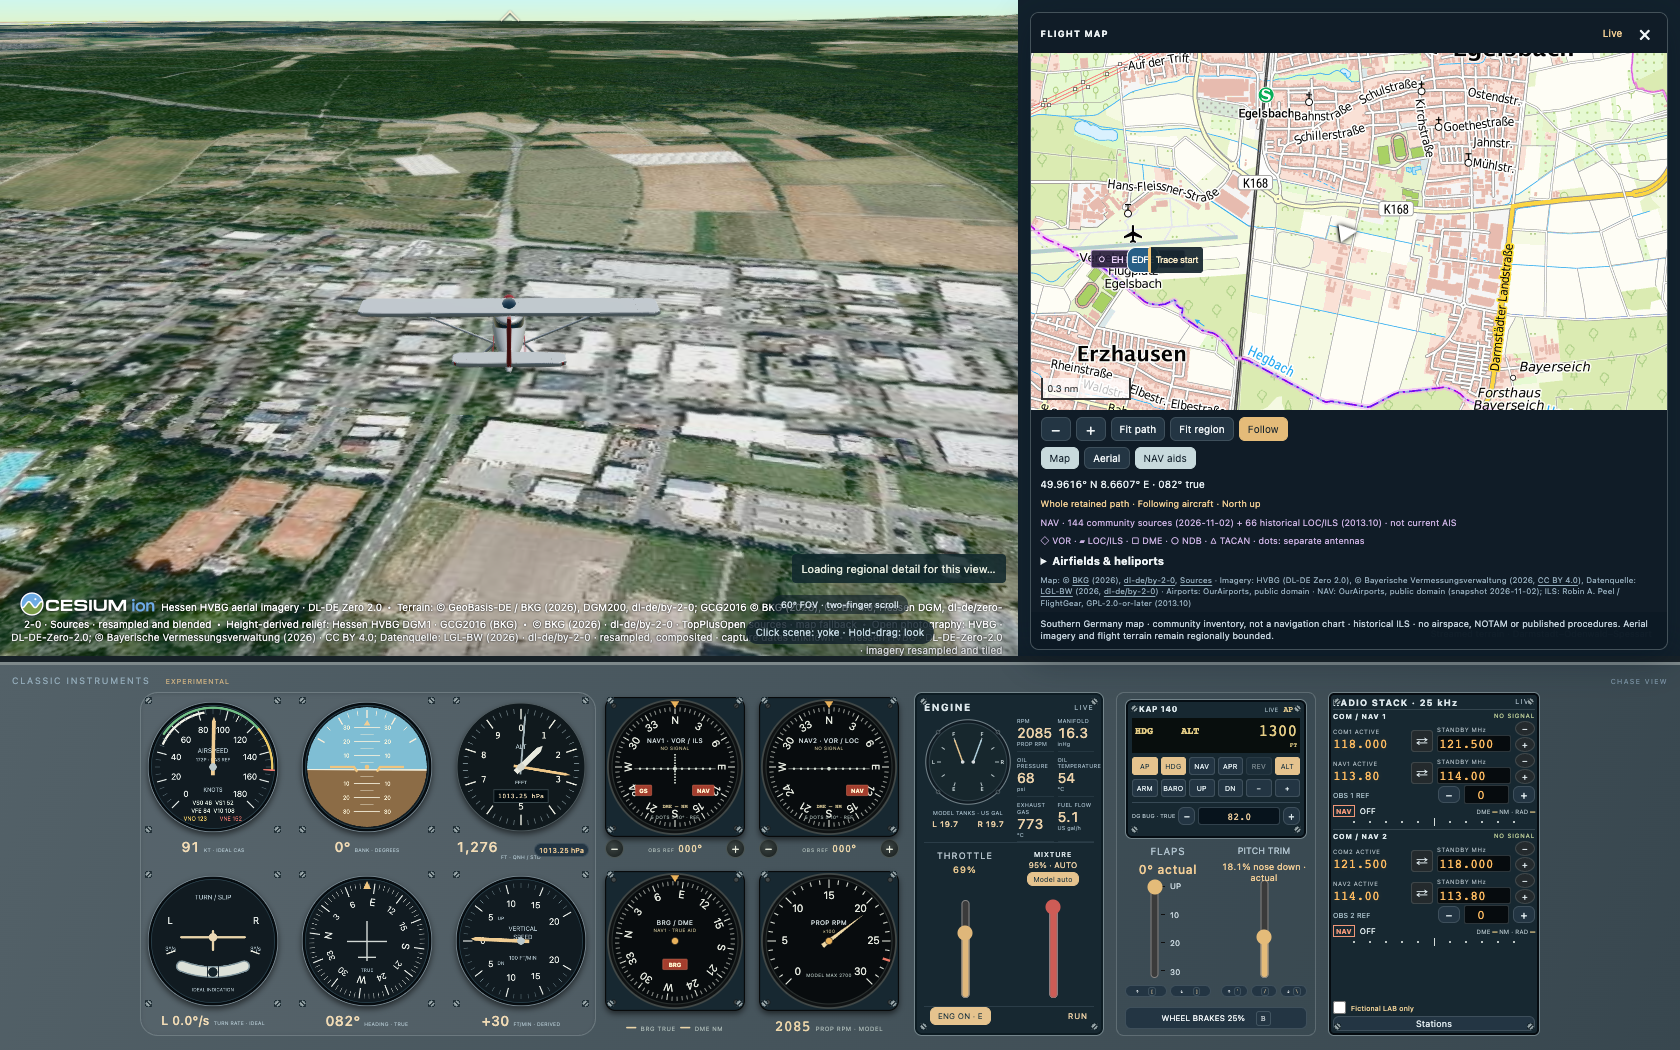
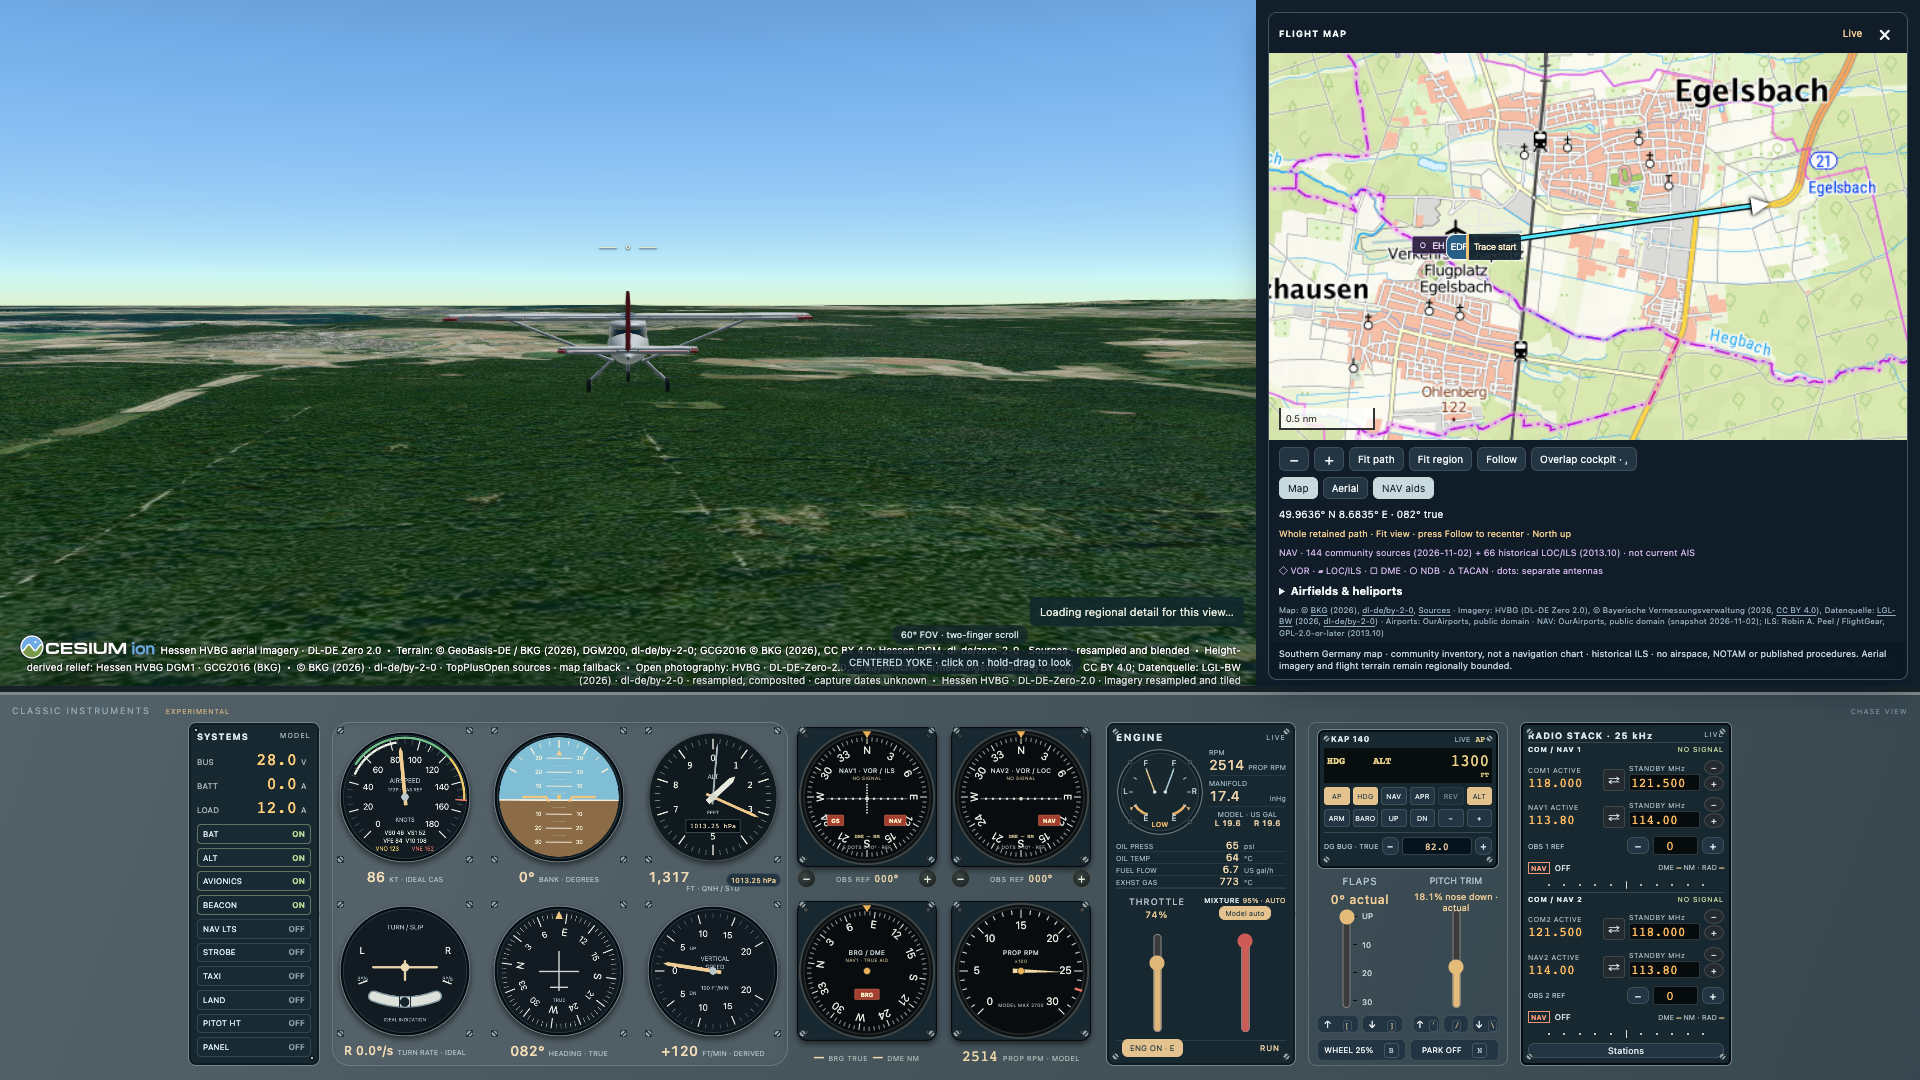
Constrain cockpit zoom and refresh the README flight view
Refs: R-PANEL-1, R-VIEW-1, R-WORLD-6, TODO 2.0.61

diff --git a/app/src/cockpit-layout.ts b/app/src/cockpit-layout.ts
@@ -8,13 +8,24 @@ export function createCockpitLayout(container: HTMLElement): { dispose(): void }
   let disposed = false;
   let zoom = 1;
   let panX = 0;
-  let panY = 0;
+  let fitted = 1, naturalHeight = 0, naturalWidth = 0, headingHeight = 0, verticalPadding = 0;
+  let maxZoom = 3;
 
   function paintZoom(): void {
     if (!deck || !instruments) return;
-    const fitted = Number(container.dataset.cockpitScale) || 1;
+    // Keep both instrument rows inside the growing deck; retain scenery above it.
+    const height = Math.ceil(naturalHeight * fitted * zoom + headingHeight + verticalPadding);
+    container.style.setProperty('--deck-height', `${height}px`);
+    const rect = deck.getBoundingClientRect();
+    const padding = getComputedStyle(deck);
+    const left = rect.left + parseFloat(padding.paddingLeft);
+    const right = rect.right - parseFloat(padding.paddingRight);
+    const width = naturalWidth * fitted;
+    const baseLeft = rect.left + (rect.width - width) / 2;
+    panX = width * zoom <= right - left ? 0
+      : Math.max(right - baseLeft - width * zoom, Math.min(left - baseLeft, panX));
     instruments.style.transformOrigin = '0 0';
-    instruments.style.transform = `translate(${panX / fitted}px, ${panY / fitted}px) scale(${zoom})`;
+    instruments.style.transform = `translateX(${panX / fitted}px) scale(${zoom})`;
     deck.dataset.zoomed = String(zoom > 1);
     deck.dataset.panelZoom = String(zoom);
   }
@@ -22,20 +33,21 @@ export function createCockpitLayout(container: HTMLElement): { dispose(): void }
   function wheel(event: WheelEvent): void {
     if (!deck || !instruments || event.defaultPrevented || event.ctrlKey || event.metaKey || event.altKey
       || container.ownerDocument.querySelector('dialog[open]')
-      || !Number.isFinite(event.deltaY) || !Number.isFinite(event.deltaX)
-      || Math.abs(event.deltaY) <= Math.abs(event.deltaX)) return;
+      || !Number.isFinite(event.deltaY) || !Number.isFinite(event.deltaX)) return;
+    const horizontal = Math.abs(event.deltaX) > Math.abs(event.deltaY);
+    if (horizontal ? zoom === 1 : event.deltaY === 0) return;
     const unit = event.deltaMode === 0 ? 1 : event.deltaMode === 1 ? 16
       : event.deltaMode === 2 ? deck.clientHeight : 0;
     if (!unit) return;
     event.preventDefault();
     event.stopPropagation();
-    const next = Math.max(1, Math.min(3, zoom * Math.exp(-Math.max(-200, Math.min(200, event.deltaY * unit)) * .002)));
+    if (horizontal) { panX -= event.deltaX * unit; paintZoom(); return; }
+    const next = Math.max(1, Math.min(maxZoom, zoom * Math.exp(-Math.max(-200, Math.min(200, event.deltaY * unit)) * .002)));
     const rect = instruments.getBoundingClientRect();
     // Keep the instrument point under the pointer fixed in screen coordinates.
     panX += (event.clientX - rect.left) * (1 - next / zoom);
-    panY += (event.clientY - rect.top) * (1 - next / zoom);
     zoom = next;
-    if (zoom === 1) { panX = 0; panY = 0; }
+    if (zoom === 1) panX = 0;
     paintZoom();
   }
 
@@ -44,12 +56,12 @@ export function createCockpitLayout(container: HTMLElement): { dispose(): void }
     if (disposed || !deck || !instruments) return;
     const style = getComputedStyle(deck);
     const horizontalPadding = parseFloat(style.paddingLeft) + parseFloat(style.paddingRight);
-    const verticalPadding = parseFloat(style.paddingTop) + parseFloat(style.paddingBottom)
+    verticalPadding = parseFloat(style.paddingTop) + parseFloat(style.paddingBottom)
       + parseFloat(style.borderTopWidth) + parseFloat(style.borderBottomWidth);
-    const headingHeight = deck.querySelector<HTMLElement>('.deck-heading')?.offsetHeight ?? 0;
+    headingHeight = deck.querySelector<HTMLElement>('.deck-heading')?.offsetHeight ?? 0;
     // offset sizes describe the canonical, unzoomed controls. No physics or camera state is changed.
-    const naturalHeight = instruments.offsetHeight;
-    const naturalWidth = instruments.offsetWidth;
+    naturalHeight = instruments.offsetHeight;
+    naturalWidth = instruments.offsetWidth;
     if (naturalHeight <= 0 || naturalWidth <= 0) return;
     let sceneReserve = 180;
     if (container.dataset.review === 'true') {
@@ -62,16 +74,14 @@ export function createCockpitLayout(container: HTMLElement): { dispose(): void }
     const scale = Math.min(1,
       Math.max(1, deck.clientWidth - horizontalPadding) / naturalWidth,
       Math.max(1, container.clientHeight - sceneReserve - headingHeight - verticalPadding) / naturalHeight);
-    const height = Math.ceil(naturalHeight * scale + headingHeight + verticalPadding);
+    fitted = scale;
+    maxZoom = Math.max(1, Math.min(3, (container.clientHeight - sceneReserve - headingHeight - verticalPadding) / (naturalHeight * scale)));
     if (container.style.getPropertyValue('--cockpit-scale') !== String(scale)) {
       container.style.setProperty('--cockpit-scale', String(scale));
     }
-    if (container.style.getPropertyValue('--deck-height') !== `${height}px`) {
-      container.style.setProperty('--deck-height', `${height}px`);
-    }
     container.dataset.cockpitScale = String(scale);
     // A viewport/layout change restores the full, fitted panel.
-    zoom = 1; panX = 0; panY = 0;
+    zoom = 1; panX = 0;
     paintZoom();
   }
   function schedule(): void {

diff --git a/app/src/practice-map.ts b/app/src/practice-map.ts
@@ -135,6 +135,20 @@ export async function createPracticeMap(options: MapOptions): Promise<PracticeMa
   let aircraft: Marker | undefined;
   let start: Marker | undefined;
   let frame: PracticeMapFrame | undefined;
+  // Project the bounded trace directly so it remains visible while worker tiles load.
+  const trajectory = document.createElementNS('http://www.w3.org/2000/svg', 'svg');
+  trajectory.classList.add('practice-map-trajectory');
+  trajectory.setAttribute('aria-hidden', 'true');
+  const track = document.createElementNS('http://www.w3.org/2000/svg', 'polyline');
+  trajectory.append(track);
+  function paintTrajectory(): void {
+    const points = ready && map && frame && frame.path.length > 1
+      ? frame.path.map(coordinate => { const p = map!.project(coordinate); return `${p.x.toFixed(2)},${p.y.toFixed(2)}`; }).join(' ')
+      : '';
+    if (track.getAttribute('points') !== points) track.setAttribute('points', points);
+  }
+
+  let paintedPath = '';
   let visible = !container.hidden;
   let ready = false;
   let disposed = false;
@@ -294,11 +308,16 @@ export async function createPracticeMap(options: MapOptions): Promise<PracticeMa
 
   function paint(): void {
     if (!visible || !ready || !map || !frame || disposed) return;
-    (map.getSource('recorded-path') as GeoJSONSource).setData({
-      type: 'FeatureCollection', features: frame.path.length < 2 ? [] : [{
-        type: 'Feature', properties: {}, geometry: { type: 'LineString', coordinates: frame.path },
-      }],
-    });
+    paintTrajectory();
+    const pathKey = JSON.stringify(frame.path);
+    if (pathKey !== paintedPath) {
+      (map.getSource('recorded-path') as GeoJSONSource).setData({
+        type: 'FeatureCollection', features: frame.path.length < 2 ? [] : [{
+          type: 'Feature', properties: {}, geometry: { type: 'LineString', coordinates: frame.path },
+        }],
+      });
+      paintedPath = pathKey;
+    }
     aircraft!.setLngLat(frame.position).setRotation(frame.heading_deg).addTo(map);
     if (frame.path.length) start!.setLngLat(frame.path[0]).addTo(map);
     else start!.remove();
@@ -339,7 +358,7 @@ export async function createPracticeMap(options: MapOptions): Promise<PracticeMa
         frame = makePracticeMapFrame(state, path);
       } catch {
         // Invalid flight state: never keep a stale marker, path or readout on screen.
-        frame = undefined;
+        frame = undefined; paintedPath = ''; paintTrajectory();
         aircraft?.remove(); start?.remove();
         if (ready && map) (map.getSource('recorded-path') as GeoJSONSource | undefined)?.setData({ type: 'FeatureCollection', features: [] });
         readout.textContent = 'Aircraft position unavailable';
@@ -417,6 +436,8 @@ export async function createPracticeMap(options: MapOptions): Promise<PracticeMa
       renderWorldCopies: false, maxPitch: 0, pixelRatio: Math.min(window.devicePixelRatio || 1, 2),
     });
     map.addControl(new ScaleControl({ unit: 'nautical', maxWidth: 100 }), 'bottom-left');
+    viewport.append(trajectory);
+    map.on('move', paintTrajectory); map.on('resize', paintTrajectory);
     map.dragRotate.disable();
     map.touchZoomRotate.disableRotation();
     map.on('moveend', () => { paintAirports(); paintNavigation(); });

diff --git a/app/src/practice-map.css b/app/src/practice-map.css
@@ -97,3 +97,7 @@
   .practice-map-layers button { padding: 4px 6px; font-size: 9px; }
   .practice-map-navigation-status, .practice-map-navigation-detail, .practice-map-navigation-key { margin-left: 8px; margin-right: 8px; }
 }
+
+.practice-map-trajectory { position: absolute; inset: 0; width: 100%; height: 100%; overflow: hidden; pointer-events: none; z-index: 1; }
+.practice-map-trajectory polyline { fill: none; stroke: #54e8fa; stroke-width: 3; stroke-linejoin: round; stroke-linecap: round; filter: drop-shadow(0 1px 1px #10212c); }
+.practice-map-aircraft, .practice-map-start, .practice-map-airport-marker, .practice-map-navigation-marker { z-index: 2; }

diff --git a/docs/SPEC.md b/docs/SPEC.md
@@ -117,7 +117,7 @@ navigation and integrity checking, separate from aircraft and learning validatio
 
 | Requirement | Status | Acceptance evidence |
 | --- | --- | --- |
-| Keep the classic panel compact, aligned and usable across viewports. [R-PANEL-1] | First instrument layout | Six-pack retains a separate rounded housing. NAV1/NAV2 share the top secondary row, with a true-reference teaching bearing/DME display and actual RPM below. A distinct dual left/right model-tank fuel gauge accompanies engine controls. Oil pressure, oil temperature, fuel flow and exhaust gas temperature each use a compact single-line label/value/unit row. Both fuel scales mark the lower quarter of model capacity, with independent non-color LOW indicators at or below that reference; unavailable data does not invent a low-fuel state, and Review follows selected recorded quantities. These are generic display references, not installed annunciator thresholds or usable-fuel reserves. Two-finger vertical scrolling over the panel magnifies it around the pointer from its fitted scale up to 3×; zoom-out or viewport resizing restores the fit. Enlarged controls remain operable, without changing camera FOV or flight state. Desktop columns run primary instruments, engine, autopilot/flaps/trim, radio, sharing top/bottom alignment and one scale. Instrument faces align by row without clipping labels or controls. Desktop height is reduced from the previous 449px at 1440×900; engine/radio collapse before primary controls on narrow views, and NAV displays remain reachable through View. Vertical throttle/mixture and equal-travel flap/trim controls, paused settings and selected recorded state remain usable. Fictional LAB bearing and model fuel/RPM references are explicit, without claiming real NDB/RMI equipment, usable-fuel reserves or aircraft-specific limits. |
+| Keep the classic panel compact, aligned and usable across viewports. [R-PANEL-1] | First instrument layout | Six-pack retains a separate rounded housing. NAV1/NAV2 share the top secondary row, with a true-reference teaching bearing/DME display and actual RPM below. A distinct dual left/right model-tank fuel gauge accompanies engine controls. Oil pressure, oil temperature, fuel flow and exhaust gas temperature each use a compact single-line label/value/unit row. Both fuel scales mark the lower quarter of model capacity, with independent non-color LOW indicators at or below that reference; unavailable data does not invent a low-fuel state, and Review follows selected recorded quantities. These are generic display references, not installed annunciator thresholds or usable-fuel reserves. Two-finger vertical scrolling over the panel magnifies it from its fitted scale up to 3×, limited by available screen height. The deck grows upward to keep both gauge rows vertically visible while preserving scenery above. Horizontal scrolling pans between enlarged columns, constrained to the panel edges; zoom-out or viewport resizing restores the fit. Enlarged controls remain operable, without changing camera FOV or flight state. Desktop columns run primary instruments, engine, autopilot/flaps/trim, radio, sharing top/bottom alignment and one scale. Instrument faces align by row without clipping labels or controls. Desktop height is reduced from the previous 449px at 1440×900; engine/radio collapse before primary controls on narrow views, and NAV displays remain reachable through View. Vertical throttle/mixture and equal-travel flap/trim controls, paused settings and selected recorded state remain usable. Fictional LAB bearing and model fuel/RPM references are explicit, without claiming real NDB/RMI equipment, usable-fuel reserves or aircraft-specific limits. |
 | Add a compact left-hand aircraft systems panel. [R-SYS-1] | First C172-style systems increment | Digital bus voltage, battery current and total load accompany BAT, ALT, avionics, beacon, navigation, strobe, taxi, landing, pitot heat and panel-light buttons. MODEL labeling/tooltips disclose ideal supply voltage and generic current estimates, separate from native electrical telemetry. ALT selection requires BAT; BAT off removes ALT selection and modeled circuit power while preserving other selected switches. Negative battery amps indicate discharge. Paused interaction must not advance native physics. Replay shows selected recorded switches read-only; absent fields show unavailable and exit restores live settings. Keep canonical panel height and common scale; on narrow screens preserve primary instruments and provide View/Alt+Shift+Y dialog access. No battery depletion, recharge transient, installed-aircraft currents, low-RPM generation, external lighting, avionics outages, starter interlocks or icing effects are claimed. Source scope/estimates are recorded in [the systems note](research/2026-11-03-aircraft-systems-panel.md). |
 
 ## Engine operation

diff --git a/docs/images/README.md b/docs/images/README.md
@@ -24,18 +24,24 @@ their displayed source/license credits. See the complete
 aircraft visual, cockpit and application code are project-authored; third-party
 data rights remain separate from the GPL project license.
 
-## Right-side flight map capture
+## Current README capture
 
-`gefly-flight-map.png`, now used in README, was captured on 2026-11-03 from the
-same actual application and Chrome/viewport, at simulation time 27.63 s / step
-3316, with Chase view, HDG/ALT, classic panels and the activated right-side map.
-The BKG map, aircraft/path and source-dated NAV controls are visible. No imagery
-fixtures, source rewrite, generated pixels or image editing were used. The first
-capture exposed a startup dependency on raster loading; the accepted capture
-follows the style-ready repair and was visually inspected.
+`gefly-flight-map.png` was refreshed on 2026-11-03 using the actual application
+in Chrome 156.0.8078.80 at 1920×1080. It shows the latest left systems panel,
+six-pack/NAV instruments, engine, KAP 140/flap/trim and radio columns, a visible
+horizon in chase view, and the public map centered around Egelsbach (EDFE).
+The cyan trajectory contains 447 sampled points from the real JSBSim
+flight; no route or aircraft states were fabricated. At capture the flight was
+running at 1×, time 61.68 s / step 7402, with HDG/ALT engaged.
 
-Actual public BKG map and bundled/live imagery requests retain their on-screen
-source credits. The screenshot is one observed view, not complete service or
-photography coverage. Disposable worker/network evidence is in
-`output/flight/flight-map-screenshot.json`; all third-party rights above still
-apply, including BKG map DL-DE-BY-2.0 and its linked source inventory.
+Reproduce manually with `node app/tests/capture-readme.mjs` after building the
+local native runtime. It uses normal UI controls and public services, with no
+imagery fixtures, source rewriting, generated backdrop or image editing.
+The flight is briefly paused while public tiles settle, then resumed before
+capture. The screenshot retains source credits and any live detail-loading
+notice; it is not proof of complete upstream imagery availability or fidelity.
+Disposable state/network evidence is in `output/flight/readme-latest-panel.json`.
+
+The BKG public map uses DL-DE-BY-2.0. The photography, terrain and geoid source
+rights described above and in the third-party inventory still apply. Aircraft
+visuals and cockpit code are project-authored; data rights remain separate.

diff --git a/README.md b/README.md
@@ -26,9 +26,10 @@ support commercial maps and charts, hosting and AI features.
 
 See the [vision and roadmap](docs/ROAD.md) for the full direction.
 
-![Gefly flying near Egelsbach with classic cockpit panels, real terrain imagery and the right-side flight map](docs/images/gefly-flight-map.png)
+![Gefly flying near Egelsbach with the latest cockpit panels, a visible horizon and a recorded flight path on the Egelsbach map](docs/images/gefly-flight-map.png)
 
-Live prototype flight in chase view, with cockpit instruments and controls.
+Live prototype flight near Egelsbach: the latest cockpit panels, horizon and
+actual flown trajectory on the right-side map.
 [Screenshot provenance and credits](docs/images/README.md).
 
 Today, Gefly is an experimental browser prototype with JSBSim flight dynamics,
@@ -73,8 +74,9 @@ and the achieved rate depends on available CPU/rendering capacity.
 Restart is in Flight. Click toggles touchpad yoke control;
 hold-drag looks around while retaining the yoke midpoint, and two-finger vertical
 scroll over the scenery changes field of view. Over the cockpit panel, scroll up
-to enlarge the instruments around the pointer (up to 3×); scroll down to restore
-the fitted panel. Resizing the window also restores the fit.
+to enlarge the instruments (up to 3×, limited by screen height). The panel grows
+upward so both gauge rows stay visible; horizontal scrolling moves between columns
+and stops at the panel edges. Scroll down or resize the window to restore the fit.
 Public terrain now streams across **8.25–10.00°E / 49.25–50.75°N**, including
 Darmstadt, Odenwald and Spessart, with named Flight-menu demonstrations. The
 bounded 200 m BKG relief surrounds the finer Egelsbach–Frankfurt–Taunus package;

diff --git a/docs/DONE.md b/docs/DONE.md
@@ -3,6 +3,33 @@
 Times use Europe/Berlin; timestamps come from the execution clock. New entries go
 above previous entries. This log records implementation, not simulator validity.
 
+## 2026-11-03 12:45 — Bounded panel zoom and refreshed flight image
+
+TODO: 2.0.61; R-PANEL-1/R-VIEW-1. Agent: Codex, direct implementation.
+
+**Implementation notes**
+
+Grow the deck upward during zoom so both instrument rows stay vertically inside
+it, cap magnification by viewport height and preserve scenery space above. Bound
+horizontal two-finger panning to the instrument edges and restore the fitted
+layout on zoom-out/resize. Build and actual Chrome maximum zoom, repeated pan,
+AP interaction, fit restoration, camera isolation and paused native-state checks
+pass. Keep a directly projected SVG trace visible independently of map-worker
+updates, and avoid rebuilding unchanged path data. Map interaction, projection
+and selected-recording/native-isolation checks also pass. Capture the actual browser flight for the README; image-specific evidence
+and credits are in docs/images/README.md.
+
+**Deviations**
+
+Enlarged columns can require horizontal scrolling. Public imagery coverage and
+capture-time availability remain limited; this image is not a scenery benchmark.
+Peer pending.
+
+**Insights**
+
+Keep the vertical instrument rows visible by changing the deck viewport together
+with magnification; clamping translation alone still clips gauge faces.
+
 ## 2026-11-03 12:23 — Left-hand aircraft systems panel
 
 TODO: 2.0.60; R-SYS-1/R-PANEL-1/R-REVIEW-1. Agent: Codex, direct implementation.

diff --git a/docs/TODO.md b/docs/TODO.md
@@ -191,6 +191,8 @@ IDs never renumber. Checked boxes mean recorded work, not a simulator claim. Fol
 
 - [x] 2.0.60 Add the left-hand systems panel with modeled switches, digital electrical estimates, source scope, BAT/ALT interlocking, paused operation, recorded replay and narrow-screen dialog access. R-SYS-1/R-PANEL-1/R-REVIEW-1. Build, 30 focused model/trace cases and actual-browser interaction/layout/replay/native-isolation checks pass; peer pending.
 
+- [x] 2.0.61 Constrain panel zoom by available height, retain both gauge rows and bounded horizontal scrolling; refresh the README capture with current controls, horizon and the actual Egelsbach flight path. R-PANEL-1/R-VIEW-1. Build and focused native/browser zoom checks pass; screenshot provenance accompanies the image. Peer pending.
+
 - [ ] 2.1 Milestone 2 scope (GAPS Q23, 2026-11-02): circuit flight, sensed checklist items, static scenario briefing, engine/fuel indications in `ind`; text radio in phase 3. Orchestrator dispatches explicit requirement IDs, criteria and disjoint write sets to both coders; starts housekeeping alongside them.
 - [ ] 2.2 code1 implements the agreed simulation/state/replay slice and meaningful tests.
 - [ ] 2.3 code2 implements the corresponding browser controls, instruments and exercise feedback against frozen contracts **in parallel with 2.2**.
